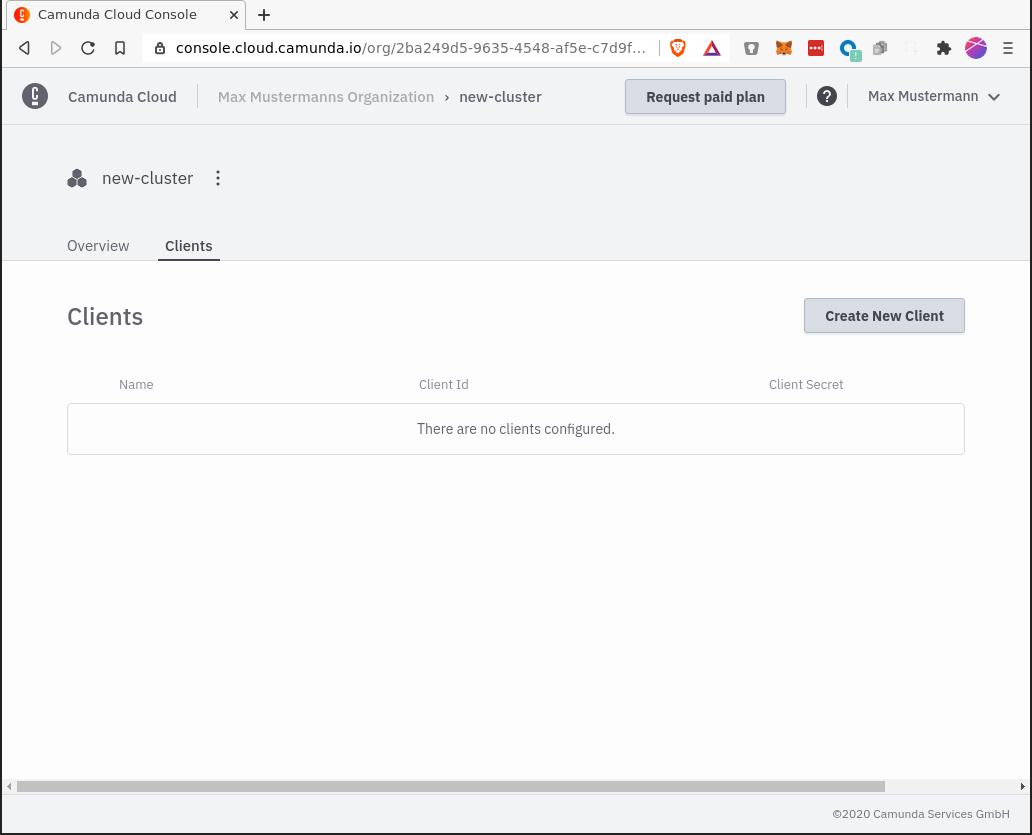
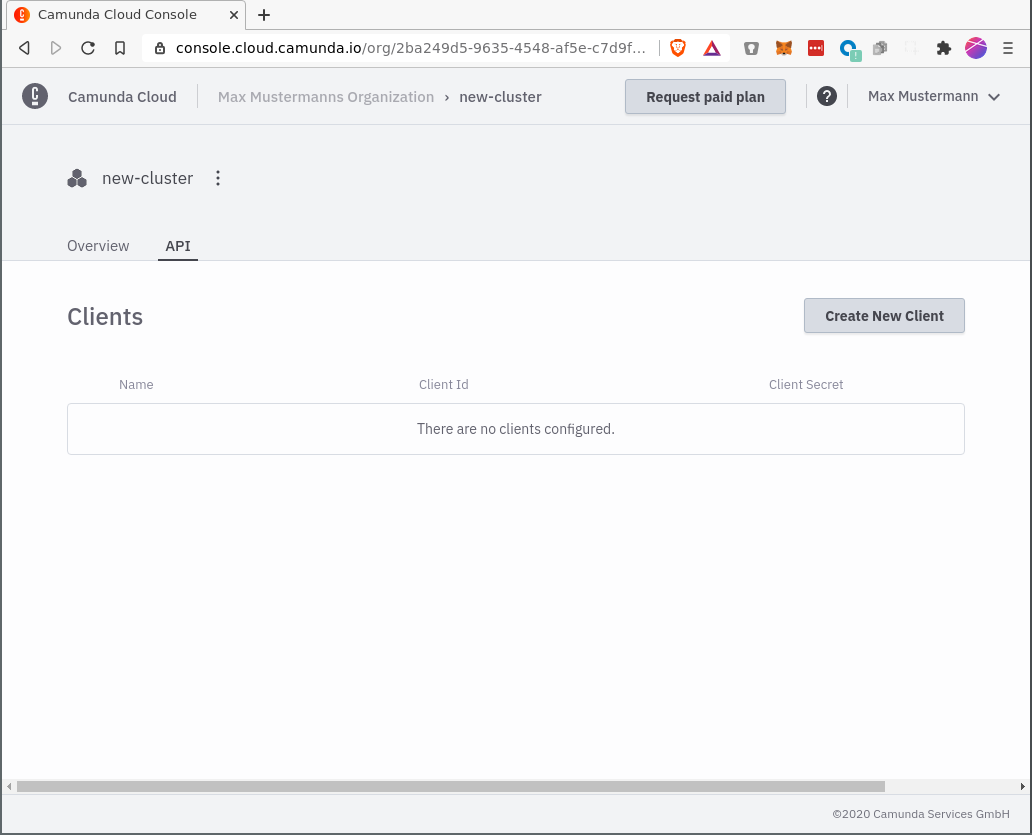
renamed Tab "Clients" to "API"

Changed region(s): [[0.0, 0.0, 1.0, 1.0], [0.155, 0.2802, 0.2171, 0.3114]]

diff --git a/docs/product-manuals/cloud-console/manage-clusters/manage-client-connections.md b/docs/product-manuals/cloud-console/manage-clusters/manage-client-connections.md
@@ -20,7 +20,7 @@ The officially offered client libraries (as well as the node client) have alread
 
 ### Create a client
 
-To create a new client you have to navigate into the Clients tab:
+To create a new client you have to navigate into the API tab:
 
 ![cluster-details](./img/cluster-detail-clients.png)
 

diff --git a/docs/guides/getting-started/setup-client-connection-credentials.md b/docs/guides/getting-started/setup-client-connection-credentials.md
@@ -3,7 +3,7 @@ id: setup-client-connection-credentials
 title: Setup Client connection credentials
 ---
 
-To create a new client you have to navigate into the Clients tab:
+To create a new client you have to navigate into the API tab:
 
 ![cluster-details](./img/cluster-detail-clients.png)
 
